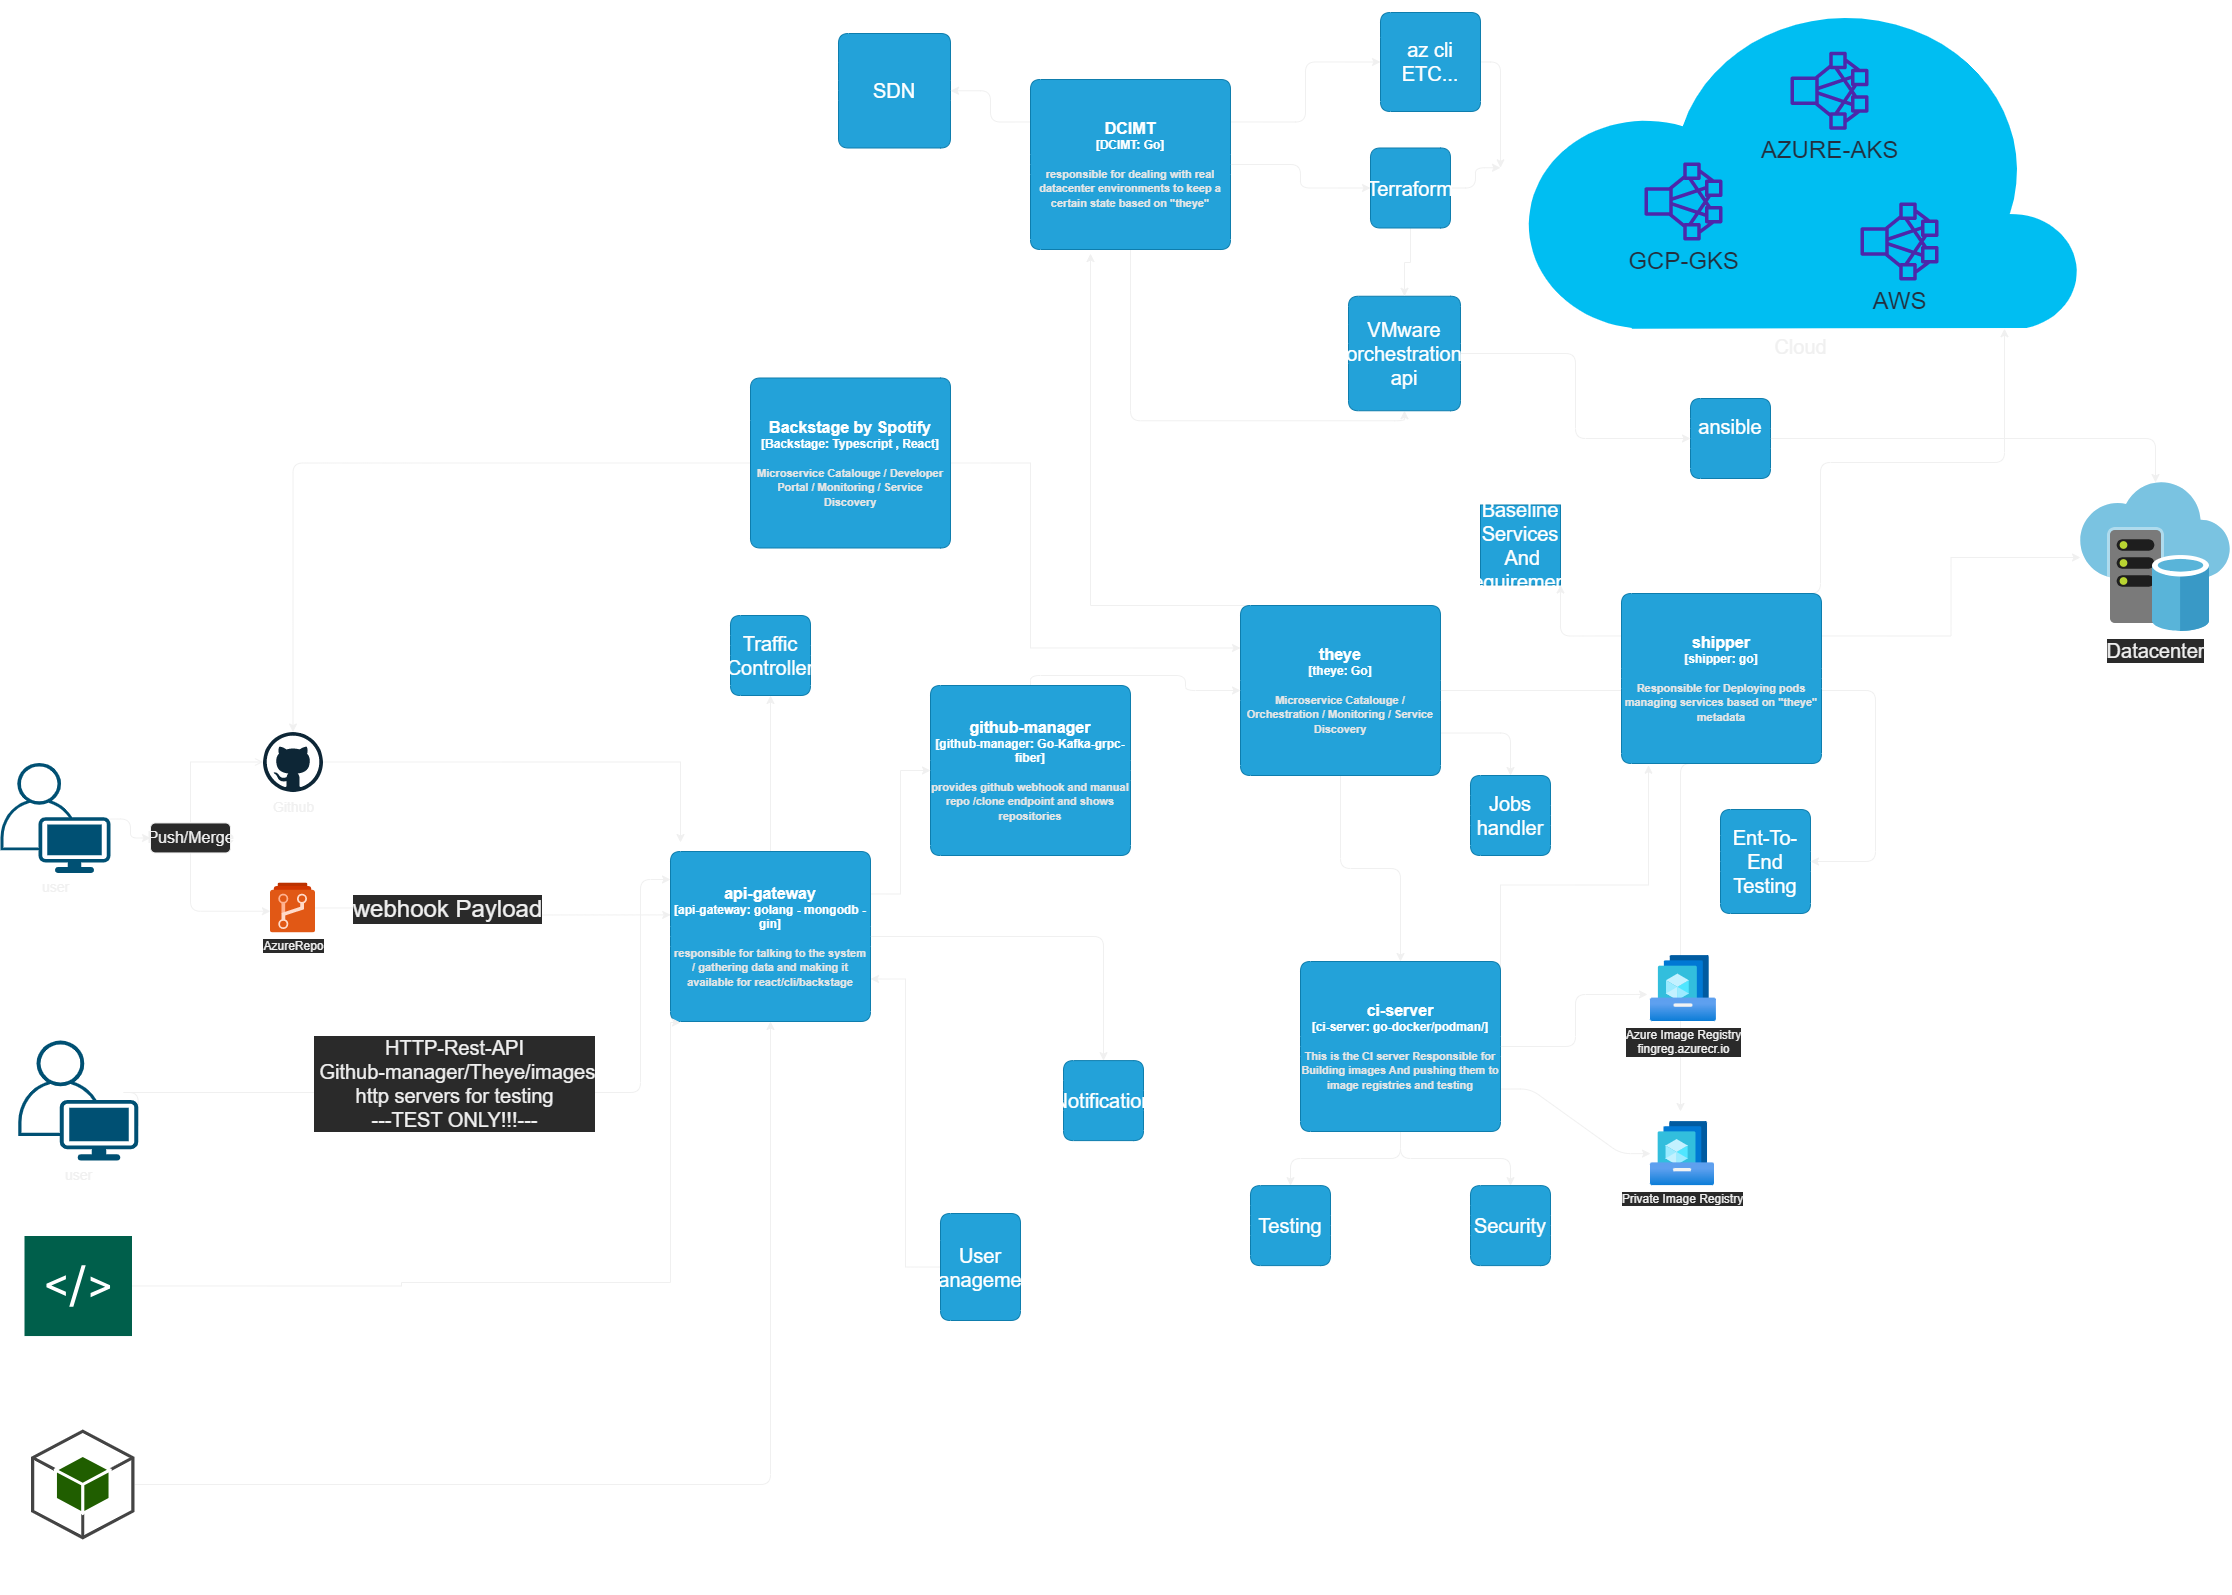
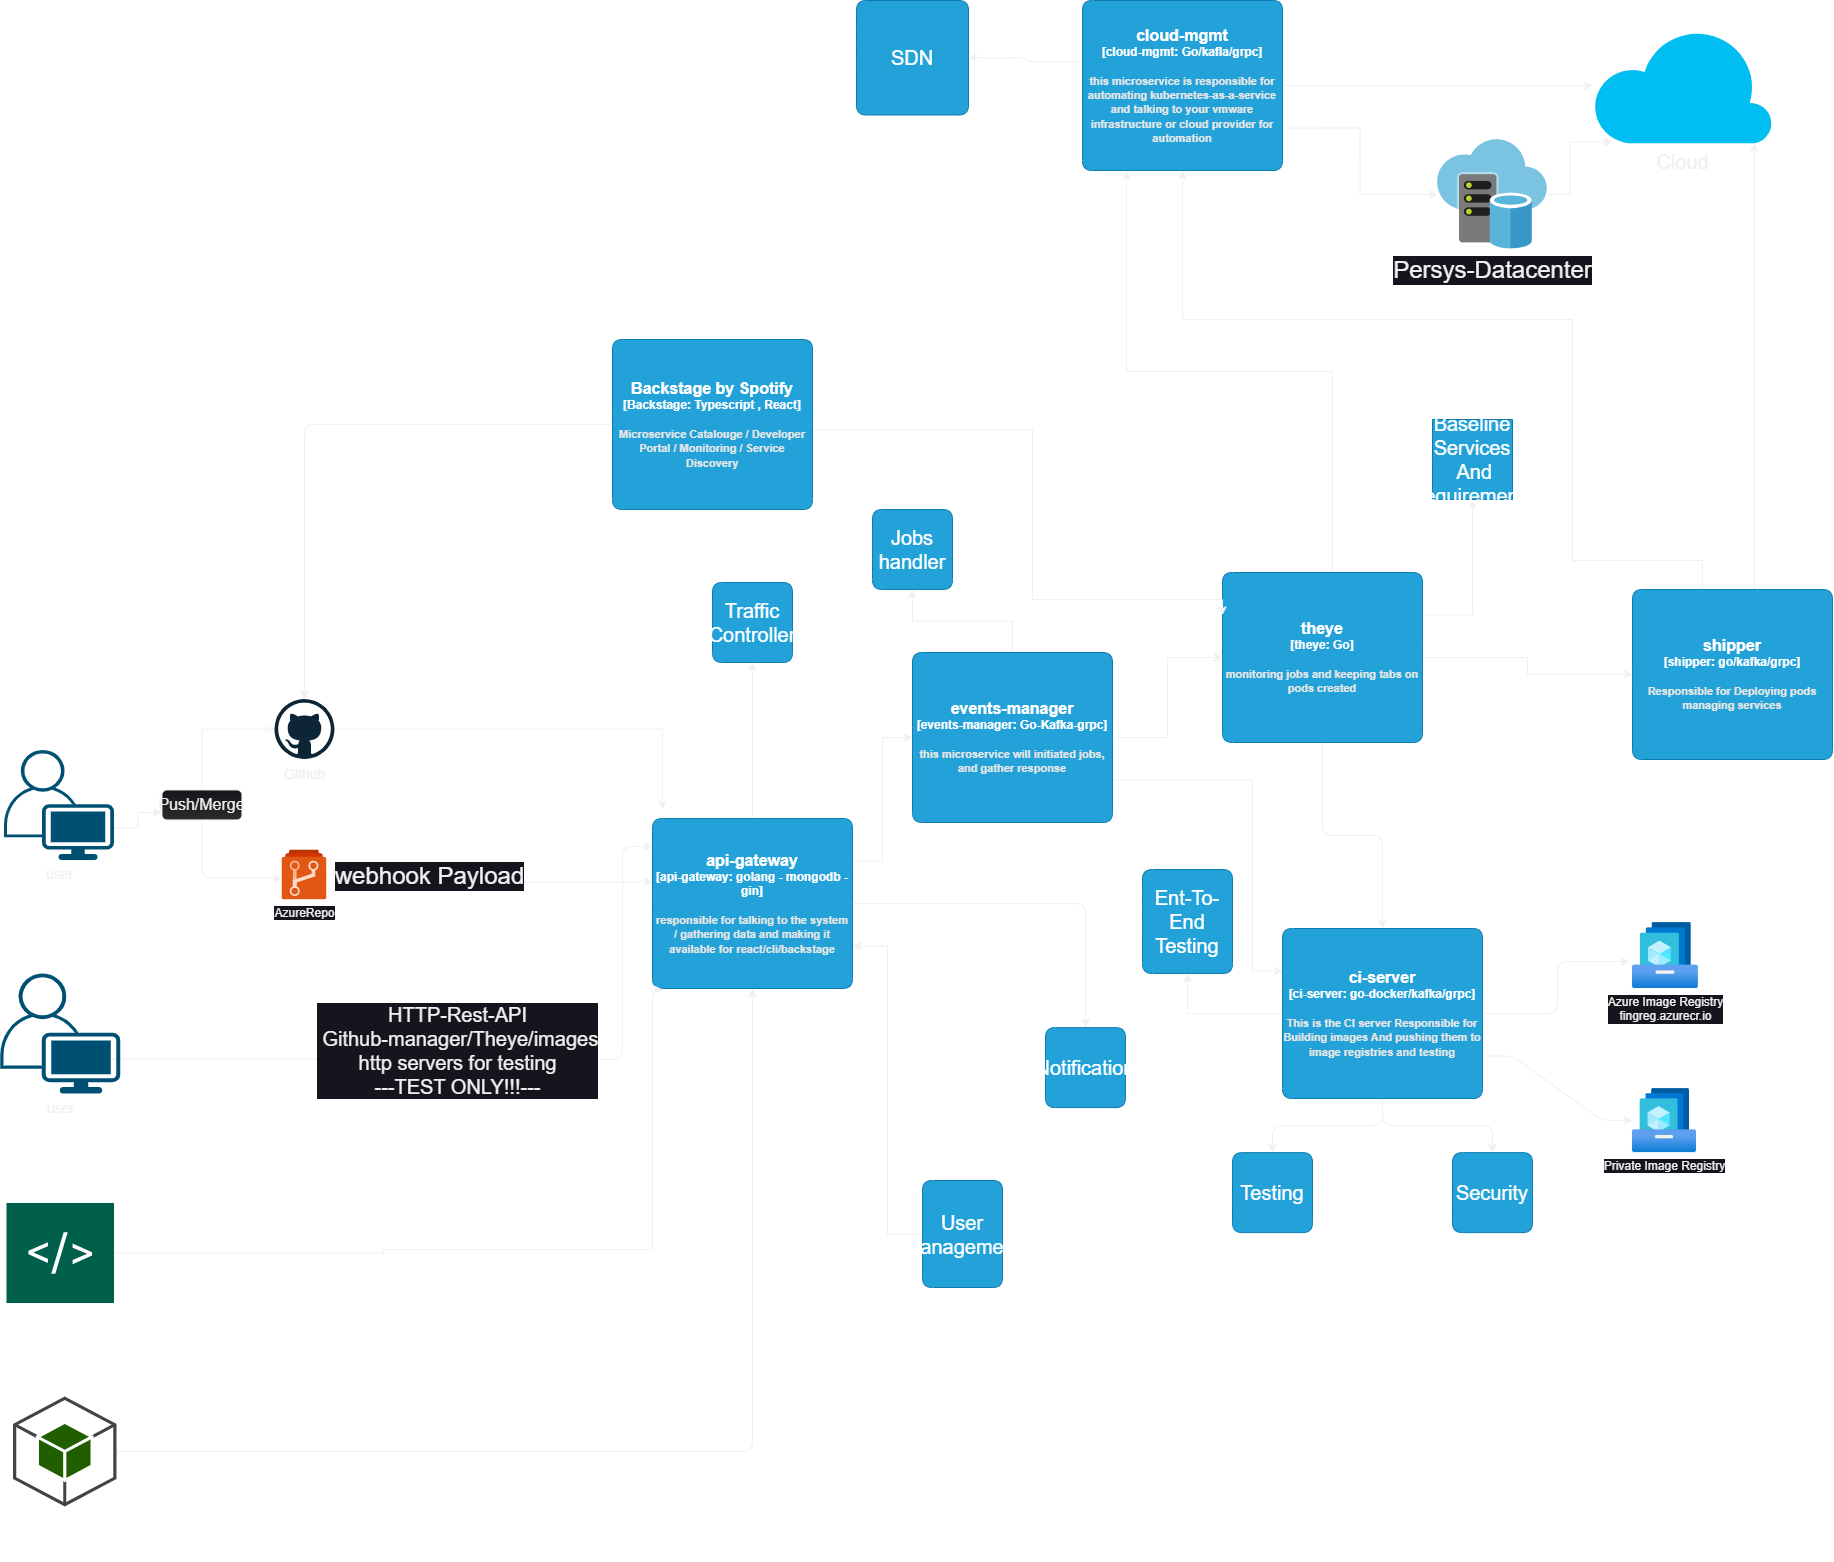
architecture / readme update

diff --git a/README.md b/README.md
@@ -1,27 +1,24 @@
 # persys-CI/CD
-DevOps as a service !! **i am working on a public version that soon will be released here! read [Updates](#Updates)**
+**DevOps as a service platform!**
+<br>
+**i am working on a public version that soon will be released here! read [Updates](#Updates)**
+<br>
+**!!THIS PROJECT IS UNDER ACTIVE DEVELOPMENT DO NOT USE IN PRODUCTION!!**
 <!-- TOC -->
-**[Architecture](#persys-cicd)**
-<br>
-**[Updates](#Updates)**
-<br>
-**[Contributions](#Contributions)**
-<br>
-**[Open Source]()**
-<br>
-**[Goals!](#Goals!)**
-<br>
-**[Project RoadMap]()**
-<br>
-**[Community](#community)**
-<br>
-**[Services Description]()**
-<br>
-**[Documentation](#Documentation)**
-<br>
-**[CNCF]()**
+* **[Architecture](#Architecture)**
+* **[Updates](#Updates)**
+* **[Contributions](#Contributions)**
+* **[Open Source]()**
+* **[Goals!](#Goals!)**
+* **[Project RoadMap]()**
+* **[Community](#community)**
+* **[Services Description]()**
+* **[Documentation](#Documentation)**
+* **[CNCF](#CNCF)**
 <!-- TOC -->
-* **this is the system design that i came up with it's more a mind map to look at.**
+
+# Architecture
+* **this is the system design that i came up with, a high level mind map to look at.**
 * feel free to open an ISSUE mentioning any problems or ideas you might have!
 
   ![](arch.png)
@@ -29,14 +26,21 @@ DevOps as a service !! **i am working on a public version that soon will be rele
 Open Source DevOps as a Service platform written in Golang with a rust CLI client and next.js frontend,
 this project provides tooling needed to take complete control over your CI/CD and Development Environment needs such as :
 service discovery , datacenter aware API gateway, multi-environment deployments (Cloud Providers, Local Kubernetes cluster) , traffic monitoring , automatic rollbacks , end-to-end testing , monitoring and health checks using Grafana and Prometheus, services catalogue , and much more!
+
+# how it works!
+**refer to [how-it-works.md](https://github.com/miladhzzzz/persys-cicd/docs/how-it-works.md) for a better understanding of how this software works!**
+
 # Updates
 * **[8/12/2022] this whole thing is written by me so there's a lot to work on, i'll really appreciate any help!**
 * **[10/3/2022] getting my hands on the hardware and infrastructures needed for developing this project has costs please consider donating to us!**
 * **[12/24/2022] I'm actively trying to build a community so please at lease give us a star or contribute to our cause!**
 * **[12/30/2022] currently the project has hard coded personal / sensitive data in it i'll release the first working version soon to our open source repository which is : https://github.com/miladhzzzz/persys-cicd**
+* **[1/12/2023]  achieved first working version on my local environment cleanup is coming along good!**
+* **[1/12/2023]  refactoring code to meet a modern microservice architecture boilerplate**
+* **[1/12/2023]  changed the architecture! also working on a linear design that will be available soon!**
 
 # Contributions
-**Cuerently we are looking for contributors in fields of expertise listed below:**
+**we are looking for contributors in fields of expertise listed below:**
 <br>
 * DevOps Engineers
 * UI/UX Designer
@@ -59,7 +63,7 @@ service discovery , datacenter aware API gateway, multi-environment deployments 
 * [Terraform]()
 * [Kubernetes]()
 * [Go (Programming Language)]()
-* [Opentelemtry](https://github.com/opentelemtry)
+* [OpenTelemtry](https://github.com/opentelemtry)
 * [Watermill](https://github.com/watermill)
 * [Mongodb](https://github.com/mongodb)
 * [Signoz](https://github.com/signoz)
@@ -68,7 +72,7 @@ service discovery , datacenter aware API gateway, multi-environment deployments 
 * [Github](https://github.com)
 
 # Goals!
-**This project really started because of my own pain to setup a development environmetn for one of my projects.
+**This project really started because of my own pain to setup a development environment for one of my projects.
 to give you a little bit of detail i needed apache kafka , mongodb cluster , backstage, prometheus , grafana, signoz ,etc ...
 plus i wanted to have a CI/CD pipeline so i can automate my software development at home!
 well considering i currently am living in Tehran/Iran internet connection is a disaster and due to sanctions i cant even access ghcr.io or registry.docker.com
@@ -88,7 +92,7 @@ in summary the goal of this project is** :
 
 # Project Road Map
 * Q1 2023 : Clean UP the code repository for and rebase to public repository.
-* Q1 2023 : Build our Community to help develop, manage , market our product
+* Q1 2023 : Build our Community to help develop, manage , market our product.
 * Q1 2023 : Test First Working version!
 * Q2 2023 : Submit project to CNCF sandbox projects and integrate our community with the world!
 * Q2 2023 : Hopefully we can get our hands on Infrastructure needed to launch our Hosted version of our software.
@@ -112,19 +116,24 @@ https://join.slack.com/t/persys-cicd/shared_invite/zt-1lje1wst0-E0TjKMIXGe1FGLex
 
 # Services Description
 * [api-gateway](https://github.com/miladhzzzz/persys-cicd) : a pretty basic api gateway that talks to the whole system and handles authorization, notification, user management (clients send http rest calls and we generate gRPC calls to microservices and use kafka to check on jobs)
-* [ci-service](https://github.com/miladhzzzz/persys-cicd) : obviously does ci server stuff build your code test it and push it to a private and/or multiple repositories
-* [clients](https://github.com/miladhzzzz/persys-cicd) : this contains client libraries for our project including a RUST CLI app and NextJS web Frontend
-* [github-manager](https://github.com/miladhzzzz/persys-cicd) : github manager basically gets webhooks from github and parses them to trigger an event for our system it can be triggered manually with a http request with a json body too
-* [shipper](https://github.com/miladhzzzz/persys-cicd) : shipper deploys your code to different types of environments (Cloud, On-Prem , etc...) and does end to end tests
-* [theye](https://github.com/miladhzzzz/persys-cicd) : theye will keep an on "EYE" on system state and try to get desired state of the whole system talking to DCIMT and ci-service , shipper
-* [DCIMT](https://github.com/miladhzzzz/persys-cicd) : DataCenter Inter-Connect Management Tool is responsible for Infrastructure as a service state keeping again working in multi envrionments (cloud , on-prem)
+* [ci-service](https://github.com/miladhzzzz/persys-cicd) : obviously does ci server stuff build your code test it and push it to a private and/or multiple repositories.
+* [clients/cli](https://github.com/miladhzzzz/persys-cicd) : a cli interactive shell written in rust that communicates with api-gateway.
+* [events-manager](https://github.com/miladhzzzz/persys-cicd) : events manager is responsible for aggregating events throughout the whole system with kafka
+* [shipper](https://github.com/miladhzzzz/persys-cicd) : shipper deploys your code to different types of environments (Cloud, On-Prem , etc...) getting your environment from cloud-mgmt.
+* [theye](https://github.com/miladhzzzz/persys-cicd) : theye will keep an on "EYE" on system state and try to get desired state of the whole system talking to cloud-mgmt and ci-service , shipper.
+* [cloud-mgmt](https://github.com/miladhzzzz/persys-cicd) : this is a datacenter-cloud inter-connect fabric that will be responsible for kubernetes-as-a-service on persys-cloud or your cloud-provider.
 
 # Documentation
-* the documentation will be located at https://github.com/miladhzzzz/persys-cicd/docs
+**the documentation will be located at https://github.com/miladhzzzz/persys-cicd/docs**
+* [getting-started.md](https://github.com/miladhzzzz/persys-cicd/docs/getting-started.md)
+* [how-it-works.md](https://github.com/miladhzzzz/persys-cicd/docs/how-it-works.md)
+* [install.md](https://github.com/miladhzzzz/persys-cicd/install.md)
+* [architecture.md](https://github.com/miladhzzzz/persys-cicd/architecture.md)
+* [contributions.md](https://github.com/miladhzzzz/persys-cicd/contributions.md)
 
 # Cloud Native Computing Foundation
 <br>
-and of course we are trying to get in Cloud Native Computing Foundation and as we mentioned above we are using and supporting a lot of CNCF technologies
+this project is currently in the sandbox waiting list of Cloud Native Computing Foundation, and as we mentioned above we are using and supporting a lot of CNCF technologies
 <br>
 so, thank you 
 
